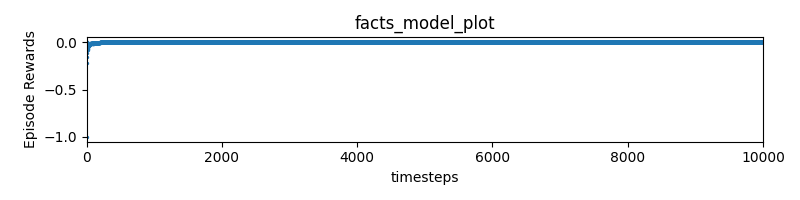
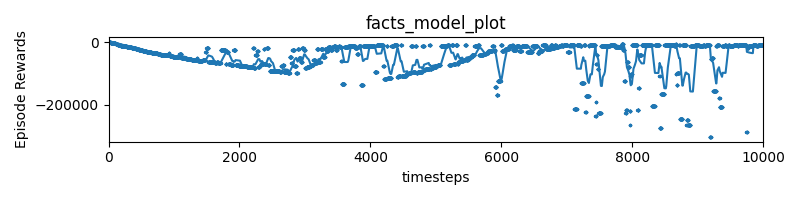
3s connector

diff --git a/3s_new_connector.py b/3s_new_connector.py
@@ -31,7 +31,7 @@ class BasicEnv(gym.Env):
 
     def __init__(self):
         self.action_space = spaces.Discrete(6)
-        self.observation_space = spaces.Box(0, 255, [1, 1, 12])
+        self.observation_space = spaces.Box(0, 255, [1, 1, 2])
 
 
     def step(self, action):
@@ -66,15 +66,11 @@ class BasicEnv(gym.Env):
             #print(state_final_line)
             scraped.close()
         state_final_line = state_final_line.split(';')
-        #print(state_final_line)
 
-        #state = stationID
-        #state = state_final_line[1]
-        #state = numpy.array(state_final_line[1], state_final_line[2]).astype(numpy.float32)
 
         # normalize the input state within [0,1]
         # approach: MIN-MAX normalization
-        a = (float(state_final_line[1]) - 2)/(3-2)
+        """a = (float(state_final_line[1]) - 2)/(3-2)
         b = (float(state_final_line[2]) - 0)/(5-0)
         c = (float(state_final_line[3]) - 600)/(2000-600)
         d = (float(state_final_line[4]) - 2400)/(10000-2400)
@@ -85,18 +81,15 @@ class BasicEnv(gym.Env):
         i = (float(state_final_line[9]) - 480)/(25100-480)
         j = (float(state_final_line[10]) - 5600)/(32000-5600)
         k = (float(state_final_line[11]) - 0)/(5-0)
-        l = (float(state_final_line[12]) - 0)/(5-0)
+        l = (float(state_final_line[12]) - 0)/(5-0)"""
 
         """state = numpy.array([state_final_line[1], state_final_line[2],
                              state_final_line[3], state_final_line[4], state_final_line[5], state_final_line[6], state_final_line[7],
                              state_final_line[8],state_final_line[9], state_final_line[10],
                              state_final_line[11], state_final_line[12]])"""
-        """state = numpy.array([state_final_line[1], state_final_line[2],
-                             state_final_line[7],
-                             state_final_line[11], state_final_line[12]])"""
-        state = numpy.array([a,b,c,d,e,f,g,h,i,j,k,l])
 
-        #state = numpy.array([state_final_line[1], state_final_line[2], state_final_line[3]])
+        state = numpy.array([state_final_line[-4], state_final_line[-5]])
+
 
         LeadTime = state_final_line[-3]
         LeadTime = float(LeadTime)
@@ -113,14 +106,16 @@ class BasicEnv(gym.Env):
         #new normalization for reward according to paper (Tt - T(q))/MAX(Tt, T(q))
         #Tt means the average value for reward before
         #T(q) means average value after the current timestep
-        if len(LeadTime_list) == 0:
+        """if len(LeadTime_list) == 0:
             Tt = 0
         else:
             Tt = sum(LeadTime_list) / len(LeadTime_list)
         LeadTime_list.append(LeadTime)
         Tq = sum(LeadTime_list)/len(LeadTime_list)
 
-        reward = (Tt - Tq) / max(Tt, Tq)
+        reward = (Tt - Tq) / max(Tt, Tq)"""
+
+        reward = -LeadTime
 
         # regardless of the action, game is done after a single step
         done = True
@@ -186,7 +181,7 @@ class SaveOnBestTrainingRewardCallback(BaseCallback):
         return True
 
 #set log directory
-log_dir = "/tmp/gym/facts/3s"
+log_dir = "/tmp/gym/facts/3s/new"
 if not os.path.exists(log_dir):
     os.makedirs(log_dir)
 # monitor the environment
@@ -195,7 +190,7 @@ env = Monitor(env, log_dir)
 
 model = DQN("MlpPolicy", env, verbose=1,tensorboard_log=log_dir,learning_rate= 0.1, learning_starts=2000)
 callback = SaveOnBestTrainingRewardCallback(check_freq=100, log_dir=log_dir)
-timesteps = 10000
+timesteps = 50000
 model.learn(total_timesteps=timesteps, callback=callback)
 
 plot_results([log_dir], timesteps, results_plotter.X_TIMESTEPS, "facts_model_plot")

diff --git a/6S_connector.py b/6S_connector.py
@@ -31,7 +31,7 @@ class BasicEnv(gym.Env):
 
     def __init__(self):
         self.action_space = spaces.Discrete(6)
-        self.observation_space = spaces.Box(0, 255, [1, 1, 12])
+        self.observation_space = spaces.Box(0, 255, [1, 1, 5])
 
 
     def step(self, action):
@@ -66,15 +66,11 @@ class BasicEnv(gym.Env):
             #print(state_final_line)
             scraped.close()
         state_final_line = state_final_line.split(';')
-        #print(state_final_line)
 
-        #state = stationID
-        #state = state_final_line[1]
-        #state = numpy.array(state_final_line[1], state_final_line[2]).astype(numpy.float32)
 
         # normalize the input state within [0,1]
         # approach: MIN-MAX normalization
-        a = (float(state_final_line[1]) - 2)/(3-2)
+        """a = (float(state_final_line[1]) - 2)/(3-2)
         b = (float(state_final_line[2]) - 0)/(5-0)
         c = (float(state_final_line[3]) - 600)/(2000-600)
         d = (float(state_final_line[4]) - 2400)/(10000-2400)
@@ -85,18 +81,12 @@ class BasicEnv(gym.Env):
         i = (float(state_final_line[9]) - 480)/(25100-480)
         j = (float(state_final_line[10]) - 5600)/(32000-5600)
         k = (float(state_final_line[11]) - 0)/(5-0)
-        l = (float(state_final_line[12]) - 0)/(5-0)
+        l = (float(state_final_line[12]) - 0)/(5-0)"""
 
-        """state = numpy.array([state_final_line[1], state_final_line[2],
-                             state_final_line[3], state_final_line[4], state_final_line[5], state_final_line[6], state_final_line[7],
-                             state_final_line[8],state_final_line[9], state_final_line[10],
-                             state_final_line[11], state_final_line[12]])"""
-        """state = numpy.array([state_final_line[1], state_final_line[2],
-                             state_final_line[7],
-                             state_final_line[11], state_final_line[12]])"""
-        state = numpy.array([a,b,c,d,e,f,g,h,i,j,k,l])
+        state = numpy.array([state_final_line[11], state_final_line[12],
+                             state_final_line[13], state_final_line[14], state_final_line[15]])
 
-        #state = numpy.array([state_final_line[1], state_final_line[2], state_final_line[3]])
+
 
         LeadTime = state_final_line[-3]
         LeadTime = float(LeadTime)
@@ -113,14 +103,16 @@ class BasicEnv(gym.Env):
         #new normalization for reward according to paper (Tt - T(q))/MAX(Tt, T(q))
         #Tt means the average value for reward before
         #T(q) means average value after the current timestep
-        if len(LeadTime_list) == 0:
+        """if len(LeadTime_list) == 0:
             Tt = 0
         else:
             Tt = sum(LeadTime_list) / len(LeadTime_list)
         LeadTime_list.append(LeadTime)
         Tq = sum(LeadTime_list)/len(LeadTime_list)
 
-        reward = (Tt - Tq) / max(Tt, Tq)
+        reward = (Tt - Tq) / max(Tt, Tq)"""
+
+        reward = -LeadTime
 
         # regardless of the action, game is done after a single step
         done = True
@@ -186,7 +178,7 @@ class SaveOnBestTrainingRewardCallback(BaseCallback):
         return True
 
 #set log directory
-log_dir = "/tmp/gym/facts/3s"
+log_dir = "/tmp/gym/facts/6s/new"
 if not os.path.exists(log_dir):
     os.makedirs(log_dir)
 # monitor the environment

diff --git a/connector.py b/connector.py
@@ -21,7 +21,9 @@ while True:
         f = open(action_path, 'w')
         writer = csv.writer(f)
         # now randonly generate a number between 0 and 5 to represent the action (Rule ID).
-        irand = randrange(0, 5)
+
+        #irand = randrange(0, 5)
+        irand = 2
         data = [row[0], row[1], irand]
         writer.writerow(data)
         f.close()
